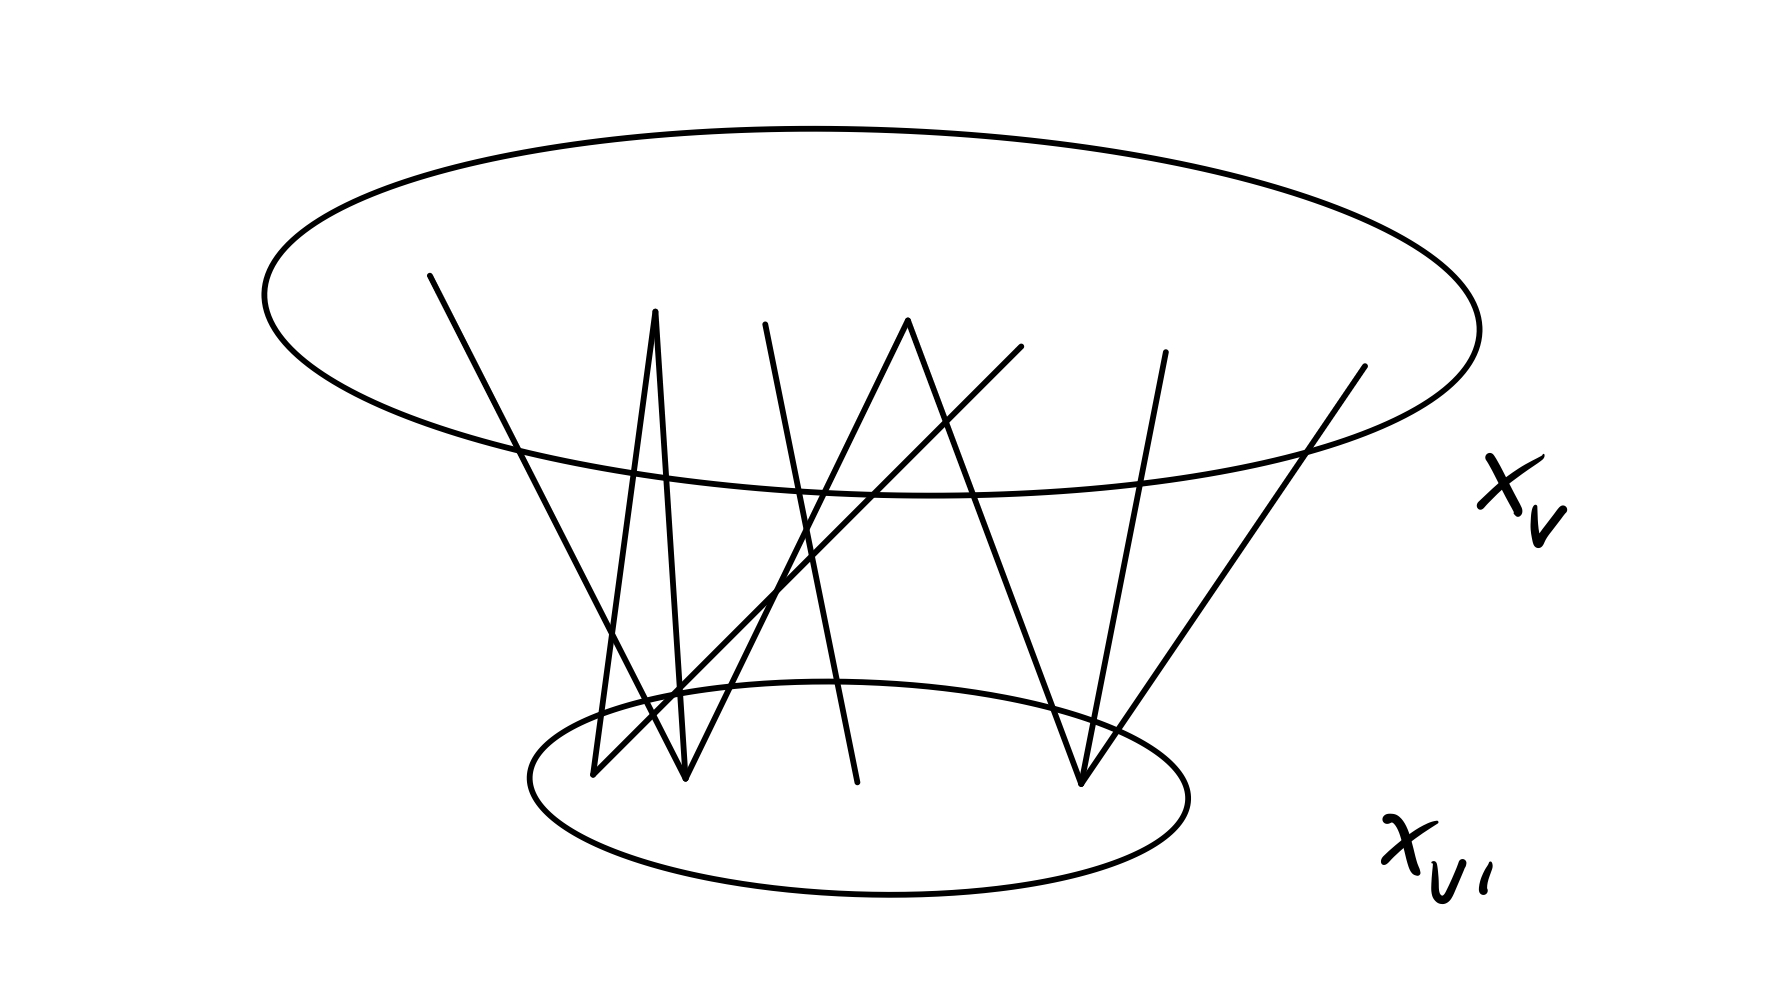
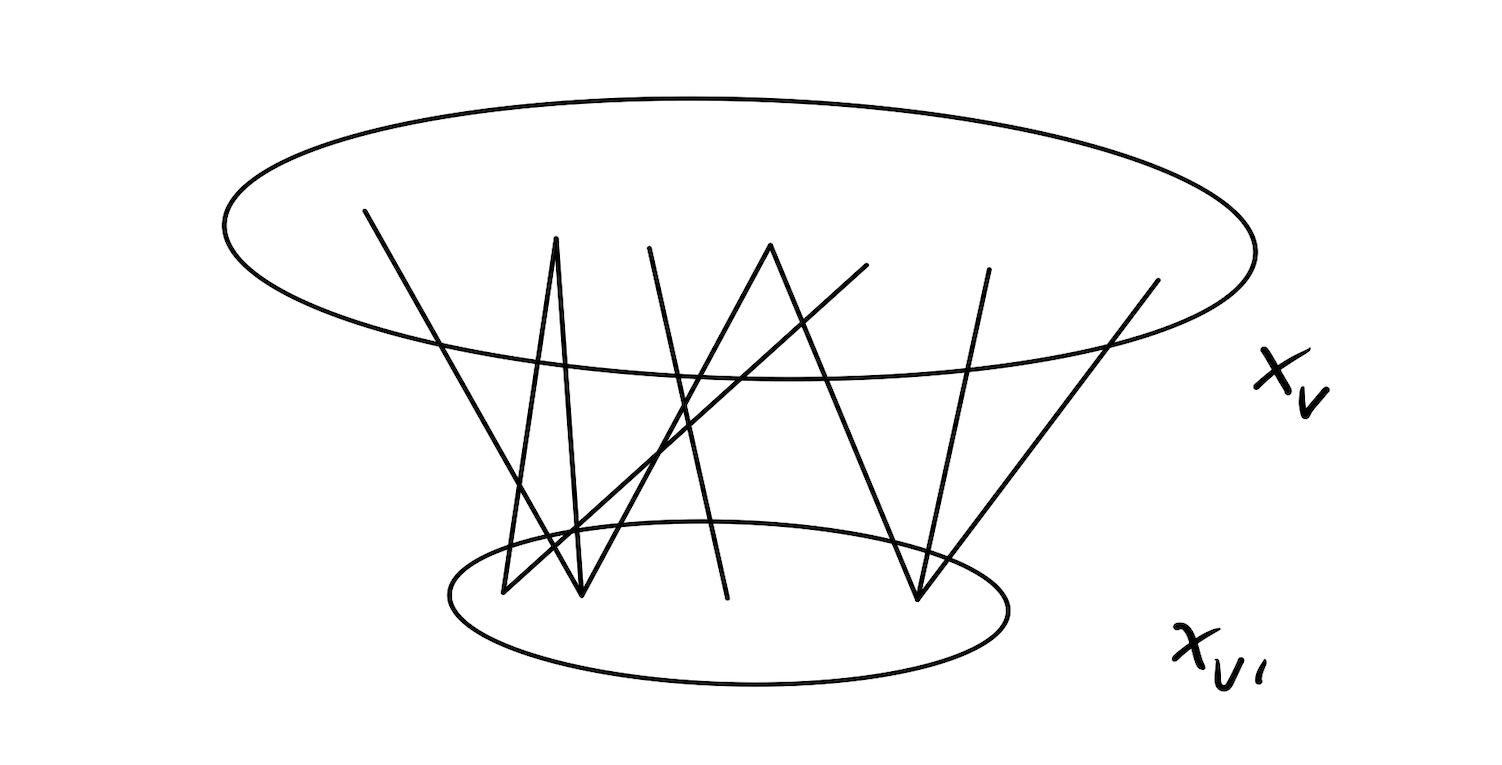
projects and pictures changes
updates projects and their pictures.

diff --git a/_projects/ChangePoint.md b/_projects/ChangePoint.md
@@ -1,0 +1,14 @@
+---
+layout: page
+title: Change Point Detection in Temporal Networks
+description: Ongoing
+img: assets/img/projects_sketches/ChangePoint.jpeg
+importance: 1
+category: Research
+---
+
+I am developing a method for detecting change points of temporal networks, i.e. time series of graphs. on graphs through the lense of information theory.
+The technique I am studying consists of a physics-inspired method based on the combination of the theory of diffusion on graphs and information theory. Most of the theoretical results that justify this approach are explained in this article
+<a href="https://www.science.org/doi/10.1126/sciadv.abj3063">.
+I presented preliminary results of this work at the 2025 workshop on temporal networks held in Oxford, and at NetSci 2025 in Maastricht.
+I am currently working on the manuscript of the article describing this work.

diff --git a/_projects/Conditional_Entropy.md b/_projects/Conditional_Entropy.md
@@ -1,0 +1,14 @@
+---
+layout: page
+title: Conditional Entropy on Graphs
+description: Ongoing
+img: assets/img/projects_sketches/ConditionalEntropy.jpeg
+importance: 2
+category: Research
+---
+
+I am studying diffusion dynamics on graphs through the lense of information theory.
+The discrete version of the heat kernel can be seen as a continous-time Markov Chain, and by choosing an appropriate measure of information, one can establish a mathematical formalism that replicates phenomena like the first and second laws of thermodynamics in a complex system modeles as a graph.
+In particular, I am focused on studying the evolution of the conditional entropy of such diffusion dynamics. 
+Most of the results on this topic can be read in this article
+<a href="https://www.science.org/doi/10.1126/sciadv.abj3063">.

diff --git a/_projects/COMIC_Tree.md b/_projects/COMIC_Tree.md
@@ -1,3 +1,4 @@
+<!--
 ---
 layout: page
 title: COMIC-Tree Model
@@ -8,3 +9,4 @@ category: Research
 ---
 
 I am working to further develop the COMIC-Tree model, preivously iintroduced in my MSc thesis.
+-->
